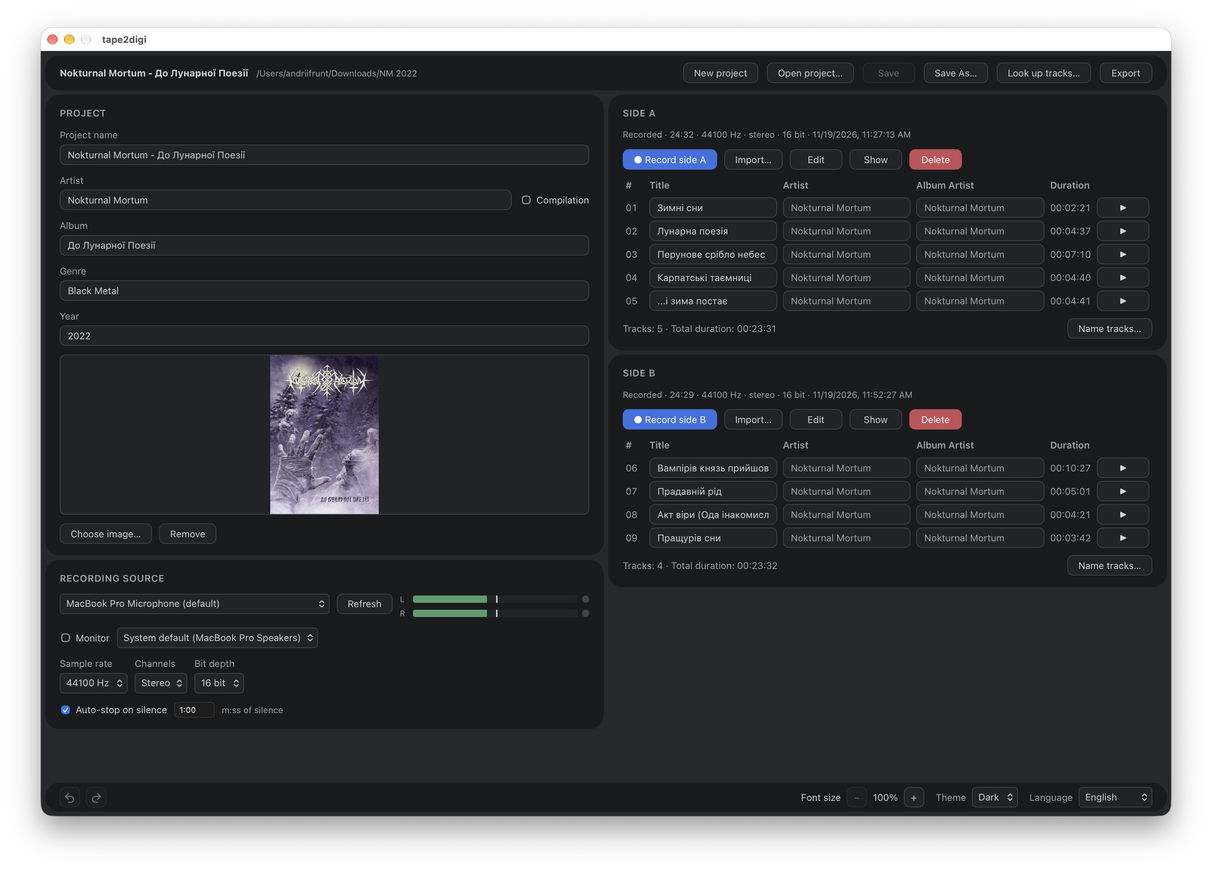
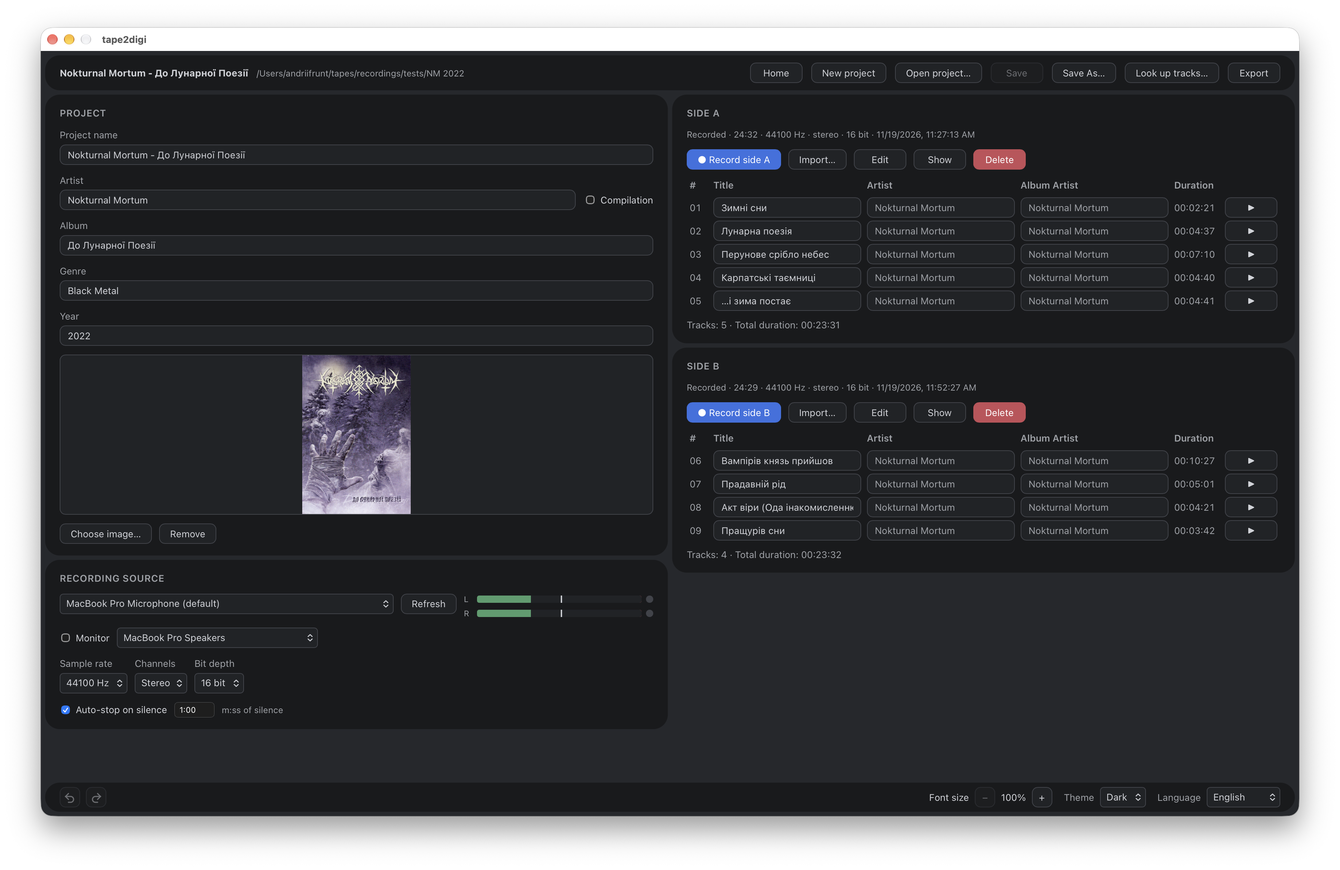
release 0.02

diff --git a/README.md b/README.md
@@ -25,7 +25,7 @@ It runs on macOS, Windows and Linux (amd64 and arm64), has an Islands Dark and I
 * **Projects**: one folder per tape, with name, artist, album, year, genre, cover image and a "Compilation" mode for tapes with various artists.
 * **Online track lookup** (optional, off until you enable it): find the release on MusicBrainz, and fill the track titles and cover.
 * **Side editor**: waveform with zoom, track start/end markers, **Amplify**, **Split** (finds the gaps between songs), **Fix Noise** (removes steady hiss and hum), **Normalize** (loudness target in LUFS), **Repair** (DC offset, hum, channel balance, azimuth, mono) and **Reset**; a spectrogram view, clip markers and keyboard shortcuts.
-* **Track table**: editable title, artist and album artist per track, with durations and totals; paste a whole track list at once or number the untitled tracks.
+* **Track table**: editable title, artist and album artist per track, with durations and totals.
 * **Track player**: preview a single track.
 * **Undo / Redo**: up to 100 steps per side, plus project-form edits such as the Compilation checkbox.
 * **Export**: WAV (original or resampled), MP3 (128–320 kbps) or FLAC with a CUE sheet; ID3v2.4 tags, embedded and `cover.png` cover, and an optional copy of the original recordings; ReplayGain tags, a file name template and export presets.
@@ -105,7 +105,7 @@ Download the app for your platform from the [Releases page](https://github.com/a
 * **WAV**: one file per track, in the recorded format or resampled to 44.1, 48, 88.2 or 96 kHz with the same bit depth.
 * **MP3**: one file per track, constant bitrate 128/192/256/320 kbps (320 by default); unavailable for sample rates the encoder cannot handle, such as 96 kHz.
 * **FLAC + CUE**: one FLAC image of the whole album, side A then B, plus a `.cue` sheet; both sides must share one format.
-* WAV and MP3 files are named by the **File names** template, `{n} - {title}` by default; the tokens are `{n}` (two-digit number), `{title}`, `{artist}`, `{album}`, `{year}` and `{side}`, separators next to an empty token are dropped, and a track without a title is `Track NN`. The dialog shows the first file name as you type; an invalid template (empty, over 100 characters, an unknown token or characters not allowed in file names) disables Export. They carry ID3v2.4 tags (title, artist, album artist, album, year, genre, track number, compilation, the project notes as comment) and optionally the cover. For WAV and MP3 the dialog has a **Maximum cover size (MB)** field (1 MB by default); a larger cover is scaled down proportionally before embedding, while `cover.png` and FLAC keep the original. FLAC carries the same tags as Vorbis comments and the cue sheet.
+* WAV and MP3 files are named by the **File names** template, `{n} - {title}` by default; the tokens are `{n}` (two-digit number), `{title}`, `{artist}`, `{album}`, `{year}` and `{side}`, separators next to an empty token are dropped, and a track without a title is `Track NN`. The dialog shows the first file name as you type; an invalid template (empty, over 100 characters, an unknown token or characters not allowed in file names) disables Export. They carry ID3v2.4 tags (title, artist, album artist, album, year, genre, track number, compilation) and optionally the cover. For WAV and MP3 the dialog has a **Maximum cover size (MB)** field (1 MB by default); a larger cover is scaled down proportionally before embedding, while `cover.png` and FLAC keep the original. FLAC carries the same tags as Vorbis comments and the cue sheet.
 * **Write ReplayGain Tags** (on by default, remembered) measures each track's loudness during export and writes ReplayGain 2.0 track and album gain and peak (ID3 `TXXX` for WAV and MP3, Vorbis comments for FLAC, `REM` lines in the cue sheet), so players can play every track equally loud without changing the audio.
 * **Presets**: **Save as preset…** stores the current choices (format, bitrate, sample rate, cover options, original recordings, ReplayGain and the file name template, but not the folder) under a name; choosing a preset from the list fills the dialog, and **Delete preset** removes it. Up to 20 presets; an existing name is replaced only after confirmation.
 * The cover is also written as `cover.png` (converted when needed).
@@ -126,7 +126,7 @@ Built with Go and [Wails v2](https://wails.io) (Svelte + TypeScript UI). Targets
 ### Data
 
 * Settings and local data: `~/.tape2digi/` (`settings.json`, which also holds the export presets, `recent-projects.json`; on Windows also `webview/`).
-* A project is a directory with `tape2digi.json` (schema v2), `side-A.wav`, `side-B.wav` and an optional `cover.png`/`cover.jpg`. Renaming a project changes only its name, not its directory. Projects from the earlier schema v1 still open; their old `recordings/` files are kept but not shown, and can be imported into a side. Markers are stored per side (schema stays 2; builds without this feature may drop the field when saving). The tape details are stored as `notes`, `tapeBrand`, `tapeType` and `noiseReduction`, and a looked-up listing per side as `listing`.
+* A project is a directory with `tape2digi.json` (schema v2), `side-A.wav`, `side-B.wav` and an optional `cover.png`/`cover.jpg`. Renaming a project changes only its name, not its directory. Projects from the earlier schema v1 still open; their old `recordings/` files are kept but not shown, and can be imported into a side. Markers are stored per side (schema stays 2; builds without this feature may drop the field when saving). A looked-up listing is stored per side as `listing`.
 * Limitation: the File menu is native on macOS; on Windows and Linux it appears in the window menu bar, and the same actions are available as buttons in the project header.
 * Limitation: on macOS and Linux the system WebView keeps its own cache outside `~/.tape2digi` and this cannot be redirected.
 
@@ -220,7 +220,7 @@ tape2digi — безкоштовний десктопний застосунок
 * **Проєкти**: одна тека на касету з назвою, виконавцем, альбомом, роком, жанром, обкладинкою та режимом «Compilation» для касет зі збірками.
 * **Пошук треків онлайн** (необов'язковий, вимкнений, доки ви його не ввімкнете): знаходить реліз у MusicBrainz, заповнює назви треків і обкладинку.
 * **Редактор сторони**: хвиля із зумом, маркери початку/кінця треків, **Amplify**, **Split** (шукає паузи між піснями), **Fix Noise** (прибирає рівномірний шум і гул), **Normalize** (цільова гучність у LUFS), **Repair** (зсув DC, гул, баланс каналів, азимут, моно) та **Reset**; вигляд спектрограми, позначки перевантажень і клавіатурні скорочення.
-* **Таблиця треків**: редагована назва, виконавець та виконавець альбому для кожного треку, з тривалостями та підсумками; вставте весь список треків одразу або пронумеруйте треки без назв.
+* **Таблиця треків**: редагована назва, виконавець та виконавець альбому для кожного треку, з тривалостями та підсумками.
 * **Програвач треку**: прослуховування окремого треку.
 * **Undo / Redo**: до 100 кроків на сторону, а також правки форми проєкту, як-от галочка Compilation.
 * **Експорт**: WAV (оригінальний або з передискретизацією), MP3 (128–320 кбіт/с) чи FLAC з CUE-файлом; теги ID3v2.4, вбудована обкладинка та `cover.png`, а також необов'язкова копія оригінальних записів; теги ReplayGain, шаблон імен файлів і пресети експорту.
@@ -300,7 +300,7 @@ tape2digi — безкоштовний десктопний застосунок
 * **WAV**: один файл на трек, у записаному форматі або з передискретизацією до 44,1, 48, 88,2 чи 96 кГц з тією самою розрядністю.
 * **MP3**: один файл на трек, постійний бітрейт 128/192/256/320 кбіт/с (за замовчуванням 320); недоступний для частот, які кодер не обробляє, як-от 96 кГц.
 * **FLAC + CUE**: один FLAC-образ усього альбому, сторона A, потім B, плюс `.cue`-файл; обидві сторони мають мати однаковий формат.
-* Файли WAV і MP3 називаються за шаблоном **Імена файлів**, за замовчуванням `{n} - {title}`; токени: `{n}` (двоцифровий номер), `{title}`, `{artist}`, `{album}`, `{year}` і `{side}`, роздільники біля порожнього токена прибираються, а трек без назви — `Track NN`. Діалог показує ім'я першого файлу під час введення; неправильний шаблон (порожній, понад 100 символів, невідомий токен або недопустимі в іменах файлів символи) вимикає Export. Файли містять теги ID3v2.4 (назва, виконавець, виконавець альбому, альбом, рік, жанр, номер треку, збірка, нотатки проєкту як коментар) та за бажанням обкладинку. Для WAV і MP3 у діалозі є поле **Maximum cover size (MB)** (за замовчуванням 1 МБ); більша обкладинка пропорційно зменшується перед вбудовуванням, а `cover.png` і FLAC зберігають оригінал. FLAC містить ті самі теги як коментарі Vorbis та cue-файл.
+* Файли WAV і MP3 називаються за шаблоном **Імена файлів**, за замовчуванням `{n} - {title}`; токени: `{n}` (двоцифровий номер), `{title}`, `{artist}`, `{album}`, `{year}` і `{side}`, роздільники біля порожнього токена прибираються, а трек без назви — `Track NN`. Діалог показує ім'я першого файлу під час введення; неправильний шаблон (порожній, понад 100 символів, невідомий токен або недопустимі в іменах файлів символи) вимикає Export. Файли містять теги ID3v2.4 (назва, виконавець, виконавець альбому, альбом, рік, жанр, номер треку, збірка) та за бажанням обкладинку. Для WAV і MP3 у діалозі є поле **Maximum cover size (MB)** (за замовчуванням 1 МБ); більша обкладинка пропорційно зменшується перед вбудовуванням, а `cover.png` і FLAC зберігають оригінал. FLAC містить ті самі теги як коментарі Vorbis та cue-файл.
 * **Записати теги ReplayGain** (увімкнено за замовчуванням, запам'ятовується) під час експорту вимірює гучність кожного треку й записує ReplayGain 2.0 для треку та альбому (підсилення й пік: ID3 `TXXX` для WAV і MP3, коментарі Vorbis для FLAC, рядки `REM` у cue-файлі), тож плеєри відтворюють усі треки однаково гучно без зміни аудіо.
 * **Пресети**: **Зберегти як пресет…** запам'ятовує поточний вибір (формат, бітрейт, частоту, параметри обкладинки, оригінальні записи, ReplayGain і шаблон імен файлів, але не теку) під назвою; вибір пресету зі списку заповнює діалог, а **Видалити пресет** прибирає його. До 20 пресетів; наявна назва замінюється лише після підтвердження.
 * Обкладинка також записується як `cover.png` (за потреби конвертується).
@@ -321,7 +321,7 @@ tape2digi — безкоштовний десктопний застосунок
 ### Дані
 
 * Налаштування та локальні дані: `~/.tape2digi/` (`settings.json`, де також зберігаються пресети експорту, `recent-projects.json`; у Windows також `webview/`).
-* Проєкт — це тека з `tape2digi.json` (схема v2), `side-A.wav`, `side-B.wav` та необов'язковою `cover.png`/`cover.jpg`. Перейменування проєкту змінює лише його назву, а не теку. Проєкти зі старої схеми v1 усе ще відкриваються; їхні старі файли `recordings/` зберігаються, але не показуються, і їх можна імпортувати у сторону. Маркери зберігаються по сторонах (схема лишається 2; збірки без цієї можливості можуть втратити поле під час збереження). Дані касети зберігаються як `notes`, `tapeBrand`, `tapeType` і `noiseReduction`, а знайдений онлайн список сторони — як `listing`.
+* Проєкт — це тека з `tape2digi.json` (схема v2), `side-A.wav`, `side-B.wav` та необов'язковою `cover.png`/`cover.jpg`. Перейменування проєкту змінює лише його назву, а не теку. Проєкти зі старої схеми v1 усе ще відкриваються; їхні старі файли `recordings/` зберігаються, але не показуються, і їх можна імпортувати у сторону. Маркери зберігаються по сторонах (схема лишається 2; збірки без цієї можливості можуть втратити поле під час збереження). Знайдений онлайн список сторони зберігається як `listing`.
 * Обмеження: меню File нативне в macOS; у Windows і Linux воно з'являється в смузі меню вікна, а ті самі дії доступні кнопками в заголовку проєкту.
 * Обмеження: у macOS і Linux системний WebView тримає власний кеш поза `~/.tape2digi`, і перенаправити його неможливо.
 

diff --git a/docs/releases/v0.0.2.md b/docs/releases/v0.0.2.md
@@ -1,0 +1,91 @@
+# tape2digi v0.0.2
+
+Recording tools, online track lookup, loudness and repair in the side editor, and smarter export. Every new step can be undone until you press **Save**.
+
+## New
+
+- **Auto-stop on silence**: a take stops by itself after the silence at the end of the tape side (0:10 to 10:00, 1:00 by default) and the silent tail is trimmed to 2 s.
+- **Online track lookup** (optional, off until you enable it): **Look up tracks…** finds the release on MusicBrainz, maps its tracks to sides A and B and fills the titles in one undoable step. It fills only empty Artist, Album and Year, and can use the release cover. Only the artist and album text is sent.
+- **Normalize**: sets the side's loudness to a target from -23 to -9 LUFS (EBU R 128, -18 by default) with the peak kept at or below -1 dBFS.
+- **Repair**: DC offset removal, a 50/60 Hz hum filter, channel balance (±6 dB), azimuth alignment and mono, offered only when the side needs them.
+- **Spectrogram and clips**: a spectrogram view, a **Clipping: N** badge, clip marks on the ruler and **Next clip**.
+- **Keyboard shortcuts** in the side editor: `S` / `E` add a start / end marker, `[` and `]` jump between markers, `Space` plays or pauses.
+- **File name template** for exported files, `{n} - {title}` by default, with the tokens `{n}`, `{title}`, `{artist}`, `{album}`, `{year}` and `{side}`.
+- **ReplayGain 2.0 tags** on export (ID3 `TXXX`, Vorbis comments, `REM` lines in the cue sheet), so all tracks play equally loud.
+- **Export presets**: save up to 20 named sets of export options.
+- **Delete a side's recording**: the side disappears at once, **Undo** brings it back, **Discard** cancels it and only **Save** removes the file.
+- **Undoable re-record**: recording, importing or recovering a take over a recorded side can be undone until **Save**, with its track marks and titles.
+- **Home** button that returns to the start screen, and a new cassette app icon.
+
+## Improved
+
+- **Split** also finds fades (at least 6 s) and sharp drops between songs, so tapes without clear silence between tracks split correctly.
+- **Side editor** toolbar wraps into two rows, so all tools fit on smaller windows.
+- **New project** in an open project goes straight to the create form.
+
+## Upgrading from 0.0.1
+
+- Projects and settings from 0.0.1 open as they are.
+- New options start at their defaults: online lookup off, auto-stop on at 1:00, ReplayGain tags on.
+
+## Downloads
+
+| Platform | amd64 | arm64 |
+|---|---|---|
+| macOS | `tape2digi-v0.0.2-darwin-amd64.zip` | `tape2digi-v0.0.2-darwin-arm64.zip` |
+| Windows | `tape2digi-v0.0.2-windows-amd64.zip` | `tape2digi-v0.0.2-windows-arm64.zip` |
+| Linux | `tape2digi-v0.0.2-linux-amd64.tar.gz` | `tape2digi-v0.0.2-linux-arm64.tar.gz` |
+
+## Notes
+
+- Hardware checks (capture, monitor, long recordings) were done on macOS arm64; other platforms are compile-verified only.
+- macOS asks for microphone permission on first run. Builds are not code-signed, so the OS may warn on first launch.
+- Linux needs GTK3 and WebKit2GTK 4.1 installed.
+- Settings and local data live in `~/.tape2digi/`. The optional track lookup is the only network access.
+
+See the [README](https://github.com/afrunt/tape2digi#readme) for usage and build instructions.
+
+---
+
+# tape2digi v0.0.2
+
+Інструменти запису, онлайн-пошук треків, гучність і відновлення звуку в редакторі сторони та зручніший експорт. Кожен новий крок можна скасувати до натискання **Save**.
+
+## Нове
+
+- **Автозупинка на тиші**: запис зупиняється сам після тиші в кінці сторони касети (від 0:10 до 10:00, за замовчуванням 1:00), а тихий хвіст обрізається до 2 с.
+- **Онлайн-пошук треків** (необов'язковий, вимкнений, доки ви його не ввімкнете): **Look up tracks…** знаходить реліз у MusicBrainz, розподіляє його треки на сторони A і B та заповнює назви одним кроком, який можна скасувати. Заповнює лише порожні Artist, Album і Year та може взяти обкладинку релізу. Надсилається лише текст виконавця й альбому.
+- **Normalize**: доводить гучність сторони до цілі від -23 до -9 LUFS (EBU R 128, за замовчуванням -18), пік не перевищує -1 dBFS.
+- **Repair**: прибирання зсуву DC, фільтр гулу 50/60 Гц, баланс каналів (±6 дБ), вирівнювання азимуту та моно; пропонується лише те, що потрібно стороні.
+- **Спектрограма й перевантаження**: вигляд спектрограми, позначка **Clipping: N**, мітки перевантажень на лінійці та **Next clip**.
+- **Клавіатурні скорочення** в редакторі сторони: `S` / `E` додають маркер початку / кінця, `[` і `]` переходять між маркерами, `Space` запускає або зупиняє відтворення.
+- **Шаблон імен файлів** для експорту, за замовчуванням `{n} - {title}`, з токенами `{n}`, `{title}`, `{artist}`, `{album}`, `{year}` і `{side}`.
+- **Теги ReplayGain 2.0** під час експорту (ID3 `TXXX`, коментарі Vorbis, рядки `REM` у cue-файлі), тож усі треки звучать однаково гучно.
+- **Пресети експорту**: до 20 іменованих наборів параметрів експорту.
+- **Видалення запису сторони**: сторона зникає одразу, **Undo** повертає її, **Discard** скасовує видалення, і лише **Save** видаляє файл.
+- **Перезапис зі скасуванням**: запис, імпорт або відновлення поверх записаної сторони можна скасувати до **Save** разом із розмітками й назвами треків.
+- Кнопка **Home** для повернення на стартовий екран і нова іконка застосунку з касетою.
+
+## Покращено
+
+- **Split** знаходить також затухання (щонайменше 6 с) і різкі спади між піснями, тож касети без чіткої тиші між треками розбиваються правильно.
+- Панель інструментів **редактора сторони** переноситься у два рядки, тож усі інструменти вміщуються в менших вікнах.
+- **New project** у відкритому проєкті одразу відкриває форму створення.
+
+## Оновлення з 0.0.1
+
+- Проєкти й налаштування з 0.0.1 відкриваються без змін.
+- Нові параметри мають значення за замовчуванням: онлайн-пошук вимкнений, автозупинка ввімкнена на 1:00, теги ReplayGain увімкнені.
+
+## Завантаження
+
+Файли для macOS, Windows і Linux (amd64 та arm64) наведено в таблиці вище.
+
+## Примітки
+
+- Апаратні перевірки (захоплення, монітор, довгі записи) виконано на macOS arm64; на інших платформах лише перевірено компіляцію.
+- macOS запитує дозвіл на мікрофон при першому запуску. Збірки не підписані, тож ОС може попередити під час першого запуску.
+- Для Linux потрібні GTK3 та WebKit2GTK 4.1.
+- Налаштування та локальні дані зберігаються в `~/.tape2digi/`. Необов'язковий онлайн-пошук треків — єдиний доступ до мережі.
+
+Докладніше про використання та збірку див. у [README](https://github.com/afrunt/tape2digi#readme).
